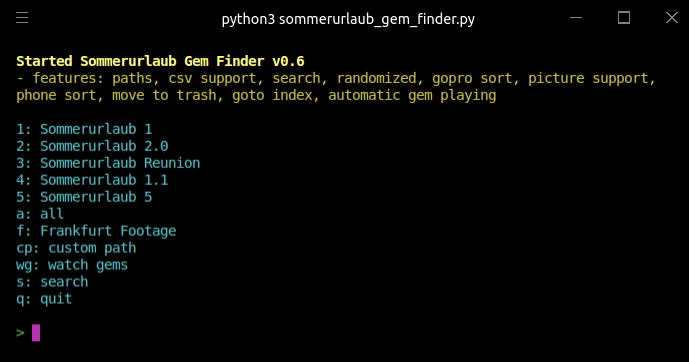
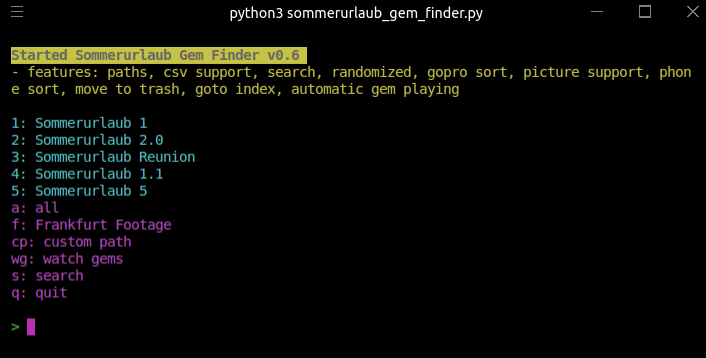
updated screenshot and fixed terminal formatting

diff --git a/sommerurlaub_gem_finder.py b/sommerurlaub_gem_finder.py
@@ -20,7 +20,7 @@ username = ""
 
 def main():
   os.system("clear")
-  print(colored("Started Sommerurlaub Gem Finder v0.6 ", 'yellow', 'on_grey', ['bold']))
+  print(colored("Started Sommerurlaub Gem Finder v0.6 ", 'grey', 'on_yellow', ['bold']))
   print(colored("- features: paths, csv support, search, randomized, gopro sort, picture support, phone sort, move to trash, goto index, automatic gem playing", 'yellow'))
   # print(colored("\nTo be added: reading timestamp automatically", 'yellow'))
 
@@ -68,7 +68,7 @@ def main():
     print("\nGems added this session:", colored(gems_counter, 'green'))
 
     if filepath != "":
-      print("\nCurrent video:", colored(filepath[12:], 'magenta'))
+      print("\nCurrent video:", colored(filepath[12:], 'white', 'on_blue'))
 
     if show_info == 1:
       print("\nNext 5:")
@@ -76,10 +76,12 @@ def main():
         print(colored(datetime.fromtimestamp(os.path.getmtime(result_list[i])).strftime(
             '%Y-%m-%d %H:%M:%S'), 'cyan'), result_list[i][12:])
 
-    print(colored("\nenter: next\nl: last\ng: add to gems\nskip: skip 5 videos\ngoto: goto specific index\np: change path\nh: print history\ns: search\nn: sort by date/random\ngopro: gopro sort\nphone: phone sort\nm: move to trash and show next\ni: info\nx: stop\nq: quit\n", 'yellow'))
+    print(colored("\nenter: next\nl: last", 'cyan'), colored("\ng: add to gems", 'green'), colored(
+        "\nskip: skip 5 videos\ngoto: goto specific index\np: change path\ns: search\nn: sort by date/random\ngopro: gopro sort\nphone: phone sort", 'yellow'),
+        colored("\nh: print history\nm: move to trash and show next\ni: info\nx: stop\nq: quit\n", 'white'))
     choice = input(colored("> ", 'green'))
 
-    if choice == "":
+    if choice == "" or choice == "enter":
       if len(result_list) == 0:
         generate(path, search)
       os.system("tmux kill-server")
@@ -186,7 +188,8 @@ def main():
 
 
 def choose_path():
-  print(colored("\n1: Sommerurlaub 1\n2: Sommerurlaub 2.0\n3: Sommerurlaub Reunion\n4: Sommerurlaub 1.1\n5: Sommerurlaub 5\na: all\nf: Frankfurt Footage\ncp: custom path\nwg: watch gems\ns: search\nq: quit\n", 'cyan'))
+  print(colored("\n1: Sommerurlaub 1\n2: Sommerurlaub 2.0\n3: Sommerurlaub Reunion\n4: Sommerurlaub 1.1\n5: Sommerurlaub 5",
+                'cyan'), colored("\na: all\nf: Frankfurt Footage\ncp: custom path\nwg: watch gems\ns: search\nq: quit\n", 'magenta'))
   choice = input(colored("> ", 'green'))
   search = ''
 
